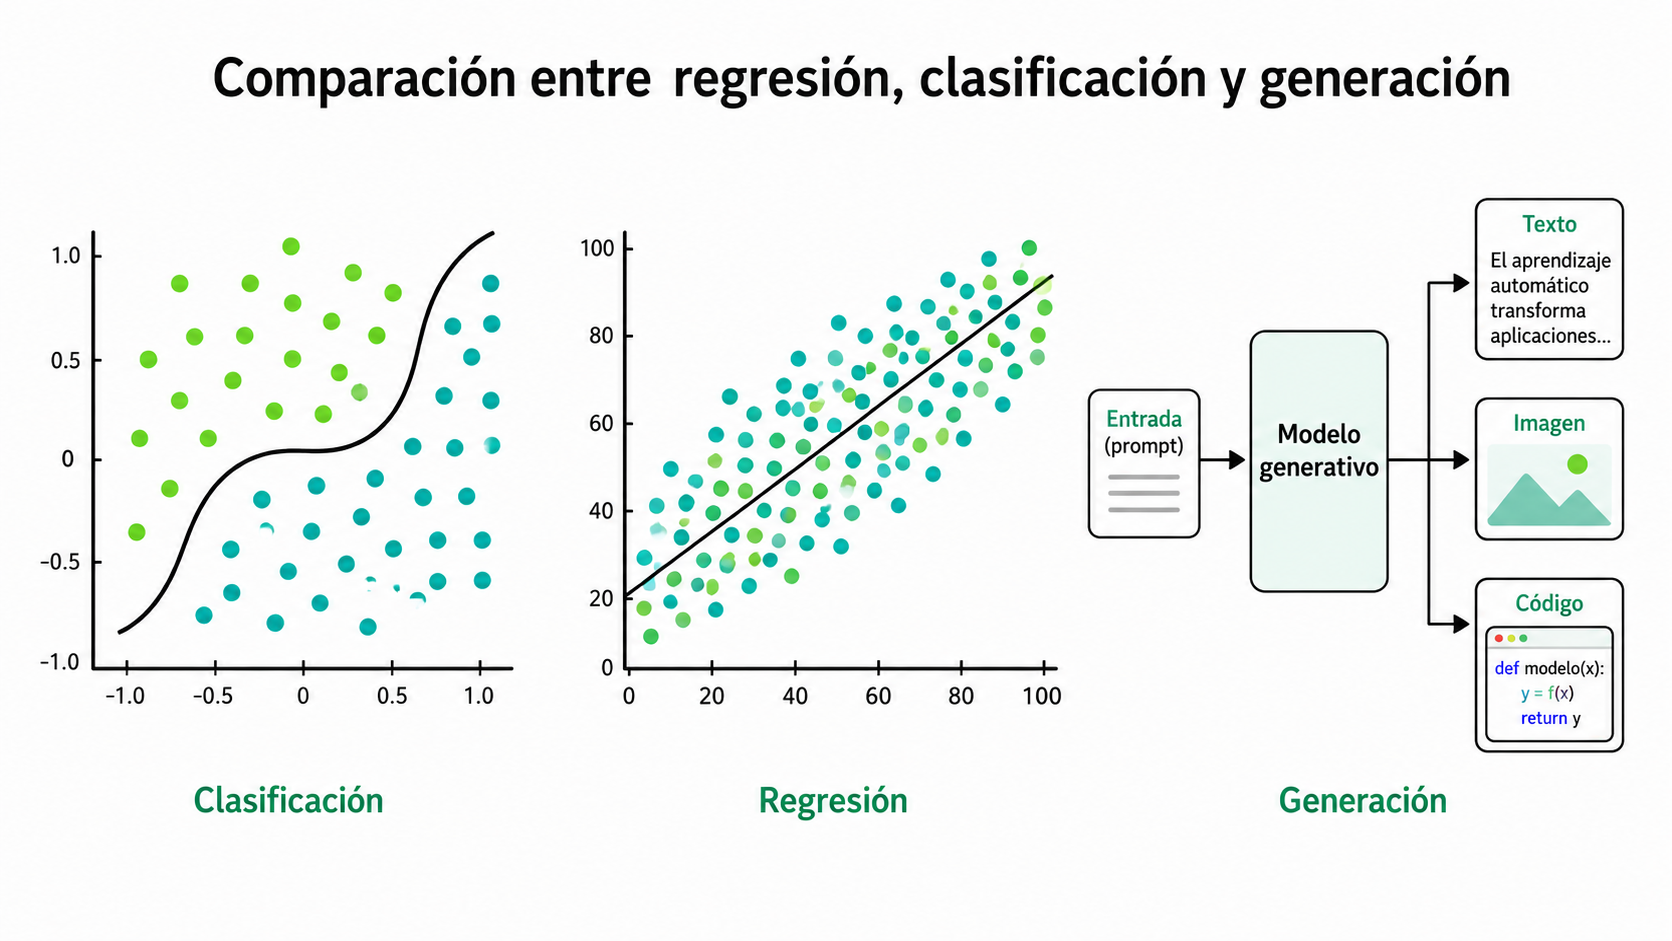
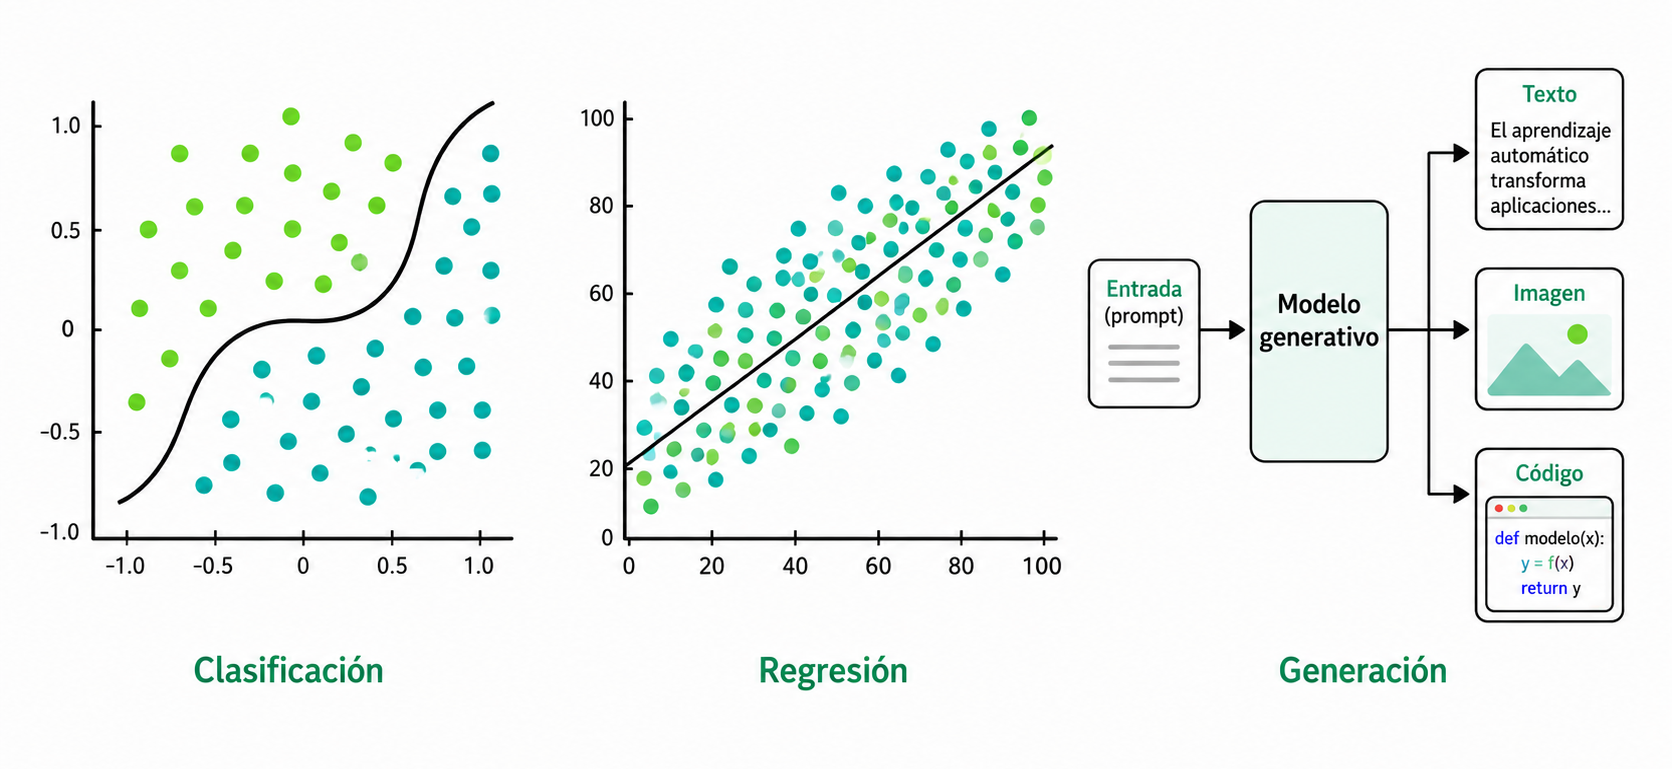
img2

diff --git a/panorama-ia-generativa-llm.md b/panorama-ia-generativa-llm.md
@@ -36,15 +36,7 @@ En aprendizaje automático, un modelo aprende una relación entre **entradas** y
 
 Ejemplo sencillo:
 
-```text
-Entrada del modelo:
-- Horas de estudio
-- Asistencia
-- Promedio de tareas
-
-Salida esperada:
-- Aprobar / No aprobar
-```
+![Modelo](assets/img/llm/01-modelo.png)
 
 En este caso, el modelo no está generando contenido nuevo. Está aprendiendo una relación estadística para clasificar o predecir una salida. Esta distinción será importante para diferenciar modelos predictivos tradicionales de modelos generativos.
 